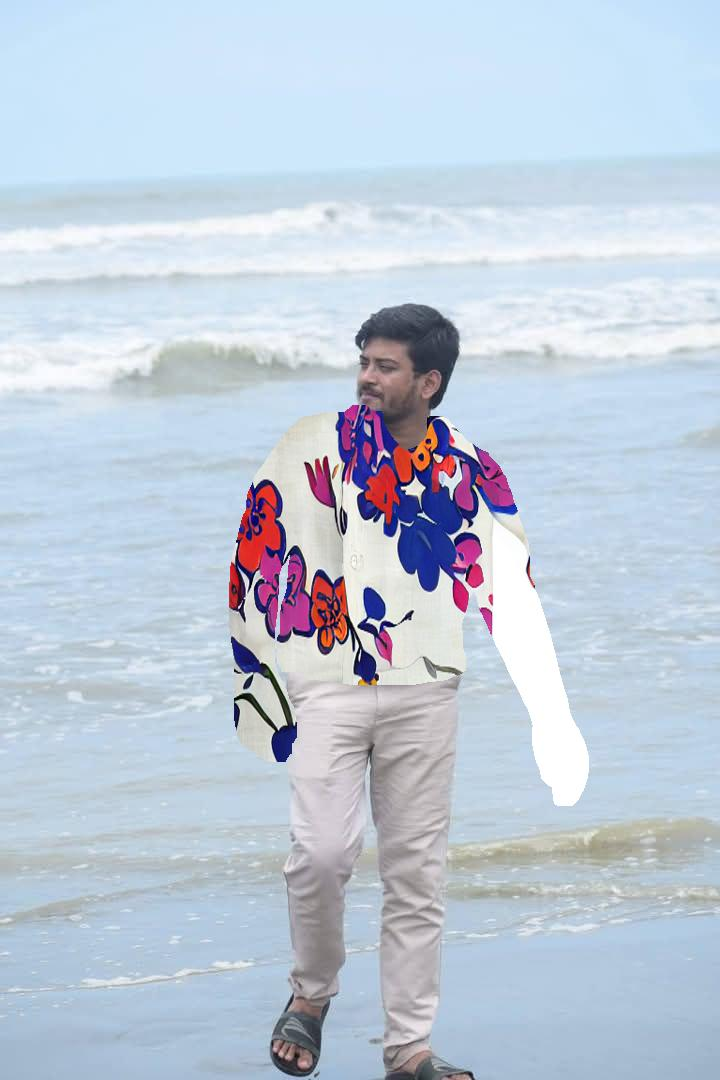
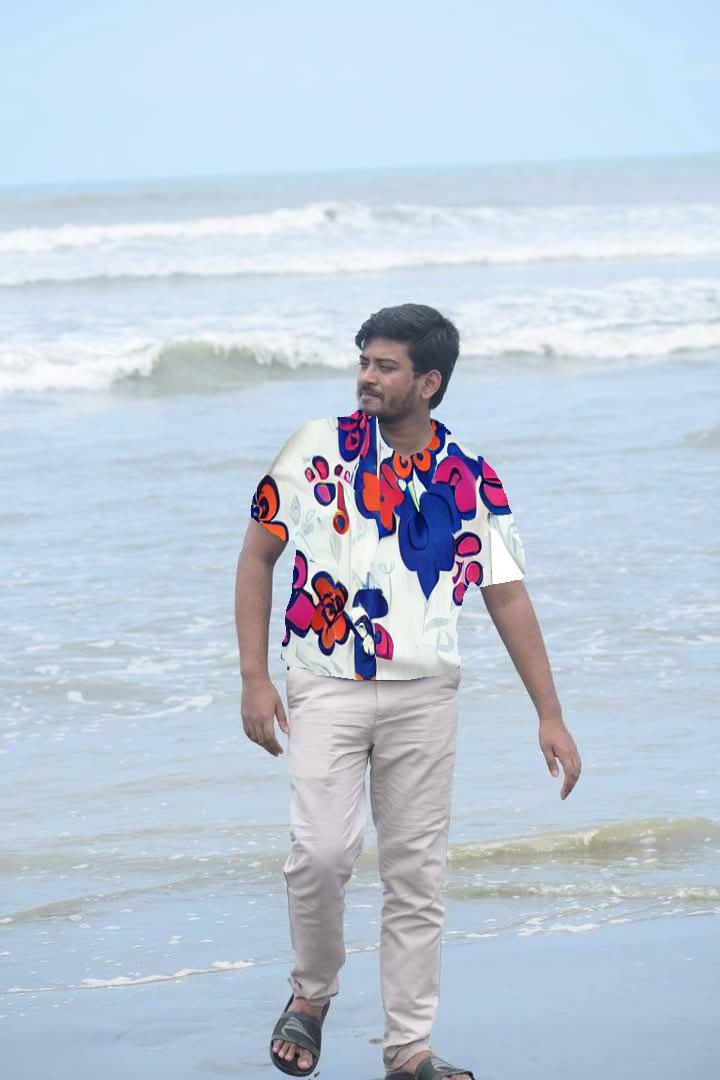
catvton imports

Changed region(s): [[0.3056, 0.3667, 0.825, 0.7639]]

diff --git a/gpu_worker/stage_b/catvton_runner.py b/gpu_worker/stage_b/catvton_runner.py
@@ -10,18 +10,20 @@ class CatVTONRunner:
         if self.device == "cuda":
             try:
                 # We assume CatVTON repo is cloned and added to sys.path in Colab
-                from model.pipelines import CatVTONPipeline
-                from diffusers import DDIMScheduler
+                from model.pipeline import CatVTONPipeline
+                from huggingface_hub import snapshot_download
                 
                 print("Loading CatVTON Pipeline... This will take a few minutes on first run.")
-                # Load CatVTON from HuggingFace
-                self.pipeline = CatVTONPipeline.from_pretrained(
-                    "zhengchong/CatVTON", 
-                    torch_dtype=torch.float16, 
-                    variant="fp16"
-                ).to(self.device)
                 
-                self.pipeline.scheduler = DDIMScheduler.from_config(self.pipeline.scheduler.config)
+                repo_path = snapshot_download(repo_id="zhengchong/CatVTON")
+                self.pipeline = CatVTONPipeline(
+                    base_ckpt="booksforcharlie/stable-diffusion-inpainting",
+                    attn_ckpt=repo_path,
+                    attn_ckpt_version="mix",
+                    weight_dtype=torch.float16,
+                    use_tf32=True,
+                    device=self.device
+                )
             except ImportError as e:
                 print(f"Warning: CatVTON imports failed: {e}. Ensure CatVTON is cloned and in sys.path.")
             except Exception as e:
@@ -59,7 +61,7 @@ class CatVTONRunner:
             num_inference_steps=50,
             guidance_scale=2.5,
             generator=generator
-        ).images[0]
+        )[0]
 
         # Resize back to original
         return result_image.resize(person_image.size)

diff --git a/gpu_worker/stage_a/texture_mapper.py b/gpu_worker/stage_a/texture_mapper.py
@@ -14,7 +14,9 @@ class TextureMapper:
         if self.device == "cuda":
             self.pipe = StableDiffusionImg2ImgPipeline.from_pretrained(
                 model_id, torch_dtype=torch.float16, safety_checker=None
-            ).to(self.device)
+            )
+            # Offload to CPU when not in use to save VRAM for CatVTON and Segformer
+            self.pipe.enable_model_cpu_offload()
         else:
             self.pipe = None # For local testing without GPU, we fallback to OpenCV only
             print("Warning: CUDA not found. Stage A Generative baking disabled. Using OpenCV fallback.")

diff --git a/test_infer.py b/test_infer.py
@@ -29,7 +29,7 @@ def test_inference(url="https://pastime-confusion-job.ngrok-free.dev/"):
     payload = {
         "person_image": encode_image("inp.jpg"),
         "fabric_image": encode_image("SummerbreezeDesgin6fabric.webp"),
-        "garment_category": "upper"
+        "garment_category": "lower"
     }
 
     url = url.rstrip('/')